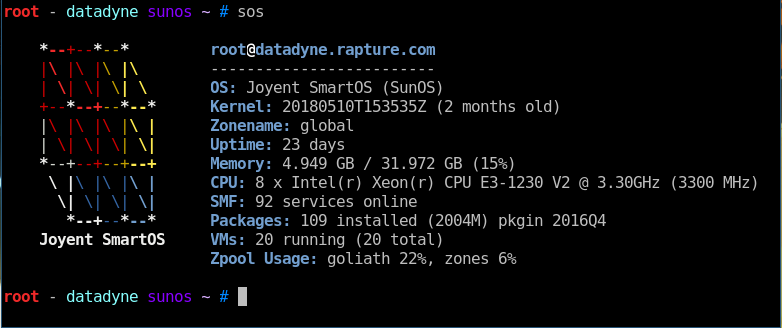
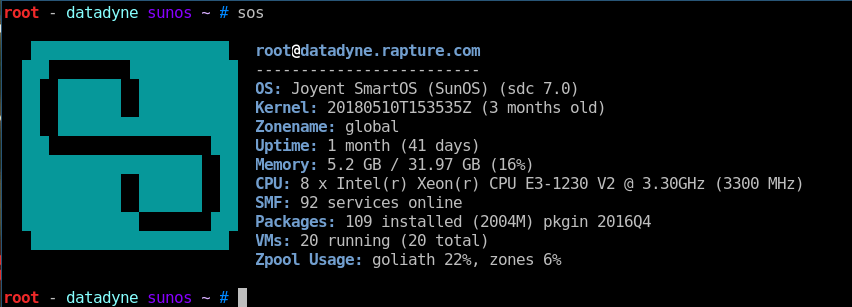
update docs

Changed region(s): [[0.0, 0.0, 1.0, 1.0]]

diff --git a/README.md b/README.md
@@ -8,6 +8,10 @@ Example
 
 Run without any arguments to get a summary
 
+#### Triton Headnode
+
+![screenshot-headnode](/screenshots/headnode.png)
+
 #### Global Zone
 
 ![screenshot-global-zone](/screenshots/global-zone.png)
@@ -19,71 +23,71 @@ Run without any arguments to get a summary
 Example
 -------
 
-    # sos -f
+    # sos -f -l triton
 
-	*--+--*--*         root@datadyne.rapture.com
-	|\ |\ |\ |\        -------------------------
-	| \| \| \| \       OS: Joyent SmartOS (SunOS)
-	+--*--+--*--*      Kernel: 20180510T153535Z (2 months old)
-	|\ |\ |\ |\ |      Zonename: global
-	| \| \| \| \|      Uptime: 23 days
-	*--+--+--+--+      Memory: 4.965 GB / 31.972 GB (15%)
-	 \ |\ |\ |\ |      CPU: 8 x Intel(r) Xeon(r) CPU E3-1230 V2 @ 3.30GHz (3300 MHz)
-	  \| \| \| \|      SMF: 92 services online
-	   *--+--*--*      Packages: 109 installed (2004M) pkgin 2016Q4
-	Joyent SmartOS     VMs: 20 running (20 total)
-			   Zpool Usage: goliath 22%, zones 6%
+	  *--+--*--*         root@datadyne.rapture.com
+	  |\ |\ |\ |\        -------------------------
+	  | \| \| \| \       OS: Joyent SmartOS (SunOS) (sdc 7.0)
+	  +--*--+--*--*      Kernel: 20180510T153535Z (3 months old)
+	  |\ |\ |\ |\ |      Zonename: global
+	  | \| \| \| \|      Uptime: 1 month (41 days)
+	  *--+--+--+--+      Memory: 5.21 GB / 31.97 GB (16%)
+	   \ |\ |\ |\ |      CPU: 8 x Intel(r) Xeon(r) CPU E3-1230 V2 @ 3.30GHz (3300 MHz)
+	    \| \| \| \|      SMF: 92 services online
+	     *--+--*--*      Packages: 109 installed (2004M) pkgin 2016Q4
+	  Joyent SmartOS     VMs: 20 running (20 total)
+			     Zpool Usage: goliath 22%, zones 6%
 
     Interfaces: 2
       - lo0      127.0.0.1, ::1
       - e1000g0  10.0.1.10
 
     Devices: 23
-      - sd0      Kingston DataTraveler 2.09    -                 0 B        (0 B)
-      - sd1      HGST  HUS724040ALS640 9    PBK6SNNX          4.001 TB   (3.639 TB)
-      - sd2      HGST  HUS724040ALS640 9    PBK6DU7X          4.001 TB   (3.639 TB)
-      - sd3      HGST  HUS724040ALS640 9    PBHNTKKX          4.001 TB   (3.639 TB)
-      - sd4      HGST  HUS724040ALS640 9    PBHNJK6X          4.001 TB   (3.639 TB)
-      - sd5      HGST  HUS724040ALS640 9    PBHNTVDX          4.001 TB   (3.639 TB)
-      - sd6      HGST  HUS724040ALS640 9    PBK3YTZX          4.001 TB   (3.639 TB)
-      - sd7      HGST  HUS724040ALS640 9    PBK6S6DX          4.001 TB   (3.639 TB)
-      - sd8      HGST  HUS724040ALS640 9    PBK3KTRX          4.001 TB   (3.639 TB)
-      - sd9      HGST  HUS724040ALS640 9    PBHN3Z6X          4.001 TB   (3.639 TB)
-      - sd10     HGST  HUS724040ALS640 9    PBK32YAX          4.001 TB   (3.639 TB)
-      - sd11     HGST  HUS724040ALS640 9    PBK58W4X          4.001 TB   (3.639 TB)
-      - sd12     HGST  HUS724040ALS640 9    PBK3K0PX          4.001 TB   (3.639 TB)
-      - sd13     ATA   Corsair Nova 2 S9    120665020000134   30.017 GB  (27.955 GB)
-      - sd14     ATA   M4-CT064M4SSD2  9    000000001151032   64.023 GB  (59.626 GB)
-      - sd15     HGST  HUS724040ALS640 9    PBHNZJAX          4.001 TB   (3.639 TB)
-      - sd16     HGST  HUS724040ALS640 9    PBK6896X          4.001 TB   (3.639 TB)
-      - sd17     HGST  HUS724040ALS640 9    PBK674VX          4.001 TB   (3.639 TB)
-      - sd18     HGST  HUS724040ALS640 9    PBHNZK1X          4.001 TB   (3.639 TB)
-      - sd19     HGST  HUS724040ALS640 9    PBHMRA6X          4.001 TB   (3.639 TB)
-      - sd20     HGST  HUS724040ALS640 9    PBHP4V9X          4.001 TB   (3.639 TB)
-      - sd21     HGST  HUS724040ALS640 9    PBK67YGX          4.001 TB   (3.639 TB)
-      - sd22     HGST  HUS724040ALS640 9    PBK6DUKX          4.001 TB   (3.639 TB)
+      - sd0      Kingston DataTraveler 2.09    -                 0          (0)
+      - sd1      HGST  HUS724040ALS640 9    PBK6SNNX          3.64 TB    (3.64 TB)
+      - sd2      HGST  HUS724040ALS640 9    PBK6DU7X          3.64 TB    (3.64 TB)
+      - sd3      HGST  HUS724040ALS640 9    PBHNTKKX          3.64 TB    (3.64 TB)
+      - sd4      HGST  HUS724040ALS640 9    PBHNJK6X          3.64 TB    (3.64 TB)
+      - sd5      HGST  HUS724040ALS640 9    PBHNTVDX          3.64 TB    (3.64 TB)
+      - sd6      HGST  HUS724040ALS640 9    PBK3YTZX          3.64 TB    (3.64 TB)
+      - sd7      HGST  HUS724040ALS640 9    PBK6S6DX          3.64 TB    (3.64 TB)
+      - sd8      HGST  HUS724040ALS640 9    PBK3KTRX          3.64 TB    (3.64 TB)
+      - sd9      HGST  HUS724040ALS640 9    PBHN3Z6X          3.64 TB    (3.64 TB)
+      - sd10     HGST  HUS724040ALS640 9    PBK32YAX          3.64 TB    (3.64 TB)
+      - sd11     HGST  HUS724040ALS640 9    PBK58W4X          3.64 TB    (3.64 TB)
+      - sd12     HGST  HUS724040ALS640 9    PBK3K0PX          3.64 TB    (3.64 TB)
+      - sd13     ATA   Corsair Nova 2 S9    120665020000134   27.96 GB   (27.96 GB)
+      - sd14     ATA   M4-CT064M4SSD2  9    000000001151032   59.63 GB   (59.63 GB)
+      - sd15     HGST  HUS724040ALS640 9    PBHNZJAX          3.64 TB    (3.64 TB)
+      - sd16     HGST  HUS724040ALS640 9    PBK6896X          3.64 TB    (3.64 TB)
+      - sd17     HGST  HUS724040ALS640 9    PBK674VX          3.64 TB    (3.64 TB)
+      - sd18     HGST  HUS724040ALS640 9    PBHNZK1X          3.64 TB    (3.64 TB)
+      - sd19     HGST  HUS724040ALS640 9    PBHMRA6X          3.64 TB    (3.64 TB)
+      - sd20     HGST  HUS724040ALS640 9    PBHP4V9X          3.64 TB    (3.64 TB)
+      - sd21     HGST  HUS724040ALS640 9    PBK67YGX          3.64 TB    (3.64 TB)
+      - sd22     HGST  HUS724040ALS640 9    PBK6DUKX          3.64 TB    (3.64 TB)
 
     VMs: 20 running (20 total)
-      - joyent   acme              running    512 MB    10 GB    10.0.1.45   (up 21 days)
-      - joyent   arbiter           running    512 MB    50 GB    10.0.1.35   (up 5 days)
-      - joyent   bart              running    512 MB    10 GB    10.0.1.30   (up 2 months)
-      - joyent   cifs              running    512 MB    10 GB    10.0.1.31   (up 2 months)
-      - joyent   jabber            running    512 MB    10 GB    10.0.1.38   (up 2 months)
-      - joyent   mqtt              running    512 MB    10 GB    10.0.1.44   (up 21 days)
-      - joyent   ns2               running    512 MB    10 GB     10.0.1.3   (up 21 days)
-      - joyent   qseer             running    512 MB   200 GB    10.0.1.34   (up 2 months)
+      - joyent   acme              running    512 MB    10 GB    10.0.1.45   (up 1 month)
+      - joyent   bart              running    512 MB    10 GB    10.0.1.30   (up 3 months)
+      - joyent   cifs              running    512 MB    10 GB    10.0.1.31   (up 3 months)
+      - joyent   jabber            running    512 MB    10 GB    10.0.1.38   (up 3 months)
+      - joyent   mqtt              running    512 MB    10 GB    10.0.1.44   (up 1 month)
+      - joyent   ns2               running    512 MB    10 GB     10.0.1.3   (up 1 month)
+      - joyent   qseer             running    512 MB   200 GB    10.0.1.34   (up 3 months)
       - joyent   red               running    512 MB    10 GB    10.0.1.43   (up 1 month)
-      - joyent   tftp              running    512 MB    10 GB     10.0.1.6   (up 2 months)
-      - joyent   vpn               running    512 MB    10 GB     10.0.1.5   (up 2 months)
-      - joyent   nagios            running   1024 MB    10 GB    10.0.1.37   (up 2 months)
-      - joyent   test              running   1024 MB    10 GB    10.0.1.41   (up 27 days)
-      - joyent   ops               running   2048 MB    10 GB    10.0.1.33   (up 2 months)
-      - joyent   vault             running   2048 MB    10 GB    10.0.1.32   (up 2 months)
-      - joyent   build             running   4096 MB   100 GB    10.0.1.29   (up 2 months)
-      - lx       btsync            running   1024 MB    20 GB    10.0.1.40   (up 2 months)
-      - lx       hass              running   1024 MB    20 GB    10.0.1.42   (up 20 days)
-      - lx       plex              running   2048 MB    50 GB    10.0.1.36   (up 2 months)
-      - lx       vulture           running   4096 MB    50 GB    10.0.1.39   (up 8 days)
+      - joyent   tftp              running    512 MB    10 GB     10.0.1.6   (up 3 months)
+      - joyent   vpn               running    512 MB    10 GB     10.0.1.5   (up 3 months)
+      - joyent   arbiter           running   1024 MB    50 GB    10.0.1.35   (up 23 days)
+      - joyent   nagios            running   1024 MB    10 GB    10.0.1.37   (up 3 months)
+      - joyent   test              running   1024 MB    10 GB    10.0.1.41   (up 1 month)
+      - joyent   ops               running   2048 MB    10 GB    10.0.1.33   (up 3 months)
+      - joyent   vault             running   2048 MB    10 GB    10.0.1.32   (up 3 months)
+      - joyent   build             running   4096 MB   100 GB    10.0.1.29   (up 3 months)
+      - lx       btsync            running   1024 MB    20 GB    10.0.1.40   (up 3 months)
+      - lx       hass              running   1024 MB    20 GB    10.0.1.42   (up 1 month)
+      - lx       plex              running   2048 MB    50 GB    10.0.1.36   (up 3 months)
+      - lx       vulture           running   4096 MB    50 GB    10.0.1.39   (up 26 days)
 
     Hard Errors:
      - ok: no hard errors found
@@ -95,7 +99,7 @@ Usage
 -----
 
     $ sos -h
-    Usage: sos [--color=auto|yes|no] [--full] [--help]
+    Usage: sos [--color=auto|yes|no] [-l <logo>] [--full] [--help]
 
     SOS - SmartOS Summary
       Gather and display information about a SmartOS installation
@@ -105,6 +109,7 @@ Usage
       -C, --main-color=blue    main color to use in output, defaults to blue
       -f, --full               additional output
       -h, --help               print this message and exit
+      -l, --logo=name          logo name, defaults to automatic
 
 License
 -------
